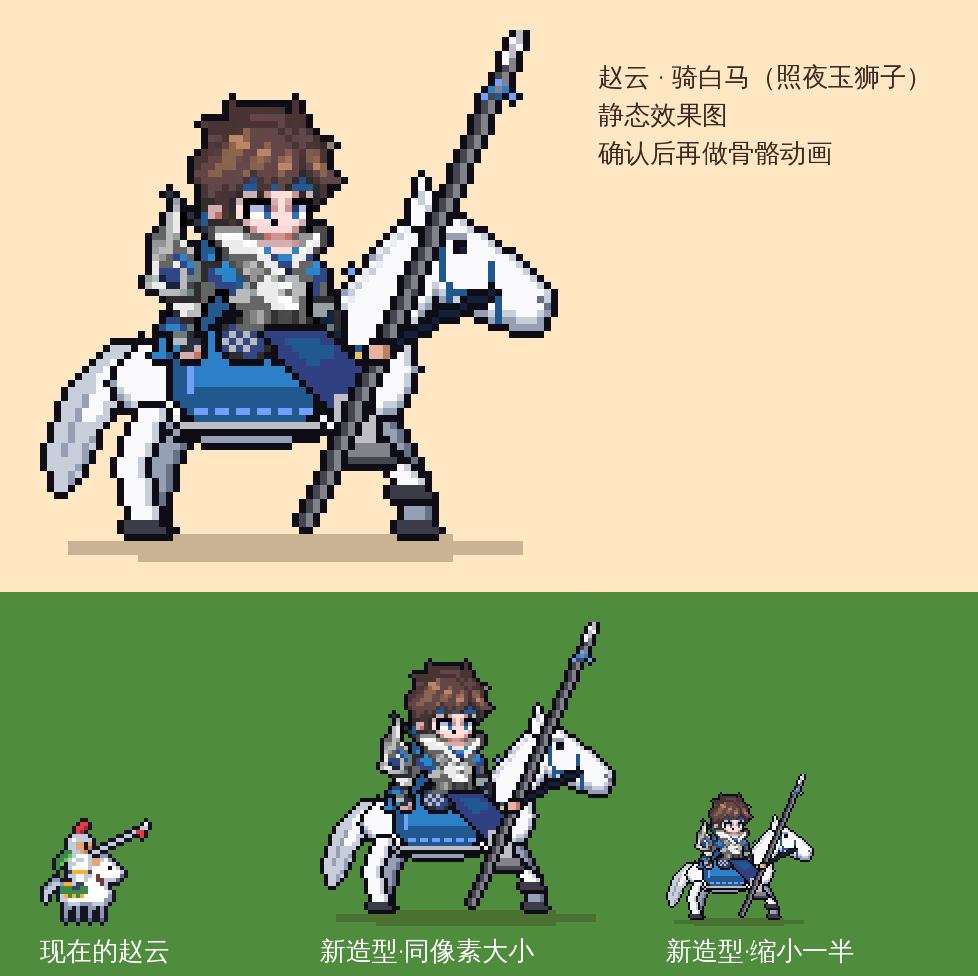
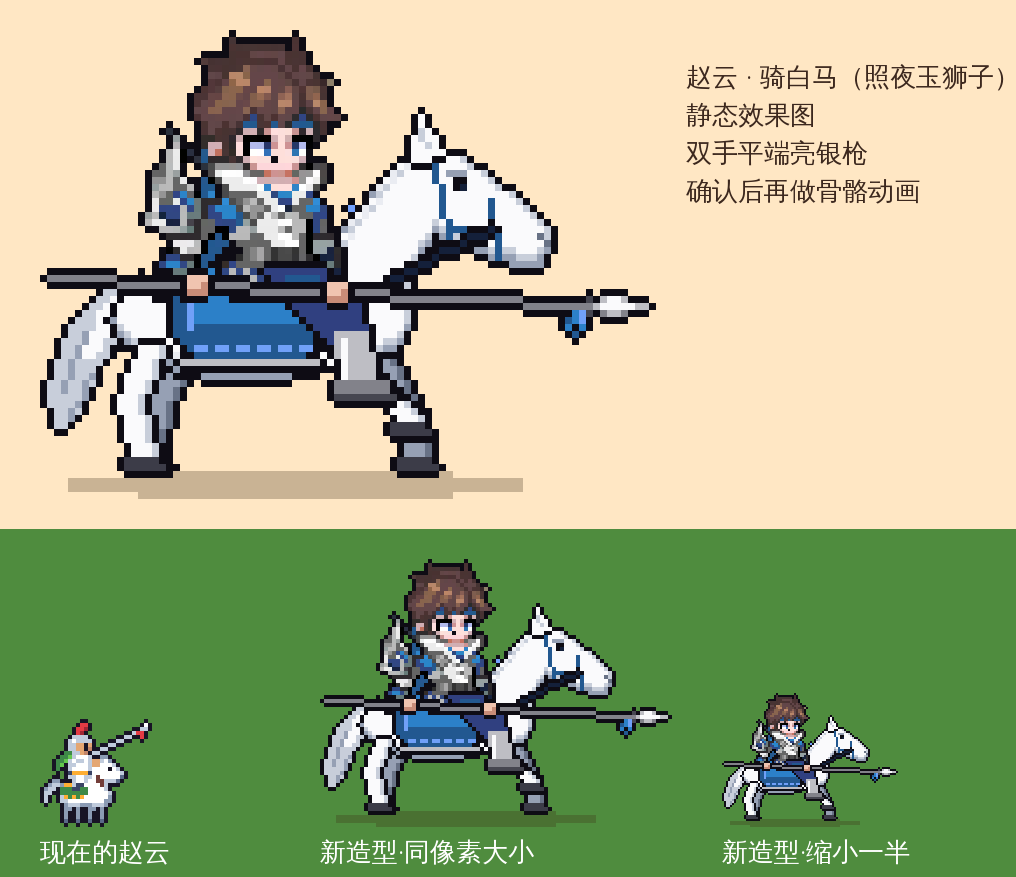
Concept: hold the spear level in both hands
Claude-Session: https://claude.ai/code/session_018oa94DhaGbkSrtXZMTeaux

diff --git a/tools/concept/zhaoyun_mounted.py b/tools/concept/zhaoyun_mounted.py
@@ -165,18 +165,24 @@ layers.append(legr)
 rein = L()
 rein.line(57, 45, 64, 41, B5); rein.line(64, 41, 72, 37, B5)
 layers.append(rein)
-# 9 亮银枪：近手握枪，枪尖斜指前上方
+# 9 亮银枪：双手平端，枪尖朝前略向下（对付步兵的冲锋姿势），枪杆在马脖子外侧
 spear = L()
-x0, y0, x1, y1 = 45, 70, 74, 4
-spear.line(x0, y0, x1, y1, S3, 2)
-spear.line(x0 + 1, y0, x1 + 1, y1, S2)
-for i, (x, y) in enumerate([(74, 3), (75, 2), (75, 1), (76, 0), (74, 4), (75, 3), (76, 2), (76, 1)]): spear.put(x, y, WH if i % 2 == 0 else S1)
-for (x, y, c) in [(73, 7, B1), (72, 8, B2), (74, 8, B2), (71, 9, B1), (73, 9, B3), (75, 9, B1)]: spear.put(x, y, c)
+x0, y0, x1, y1 = 9, 44, 86, 48
+spear.line(x0, y0, x1, y1, S2)
+# 枪头：叶形，银白，长 8
+for (x, y, c) in [(87, 48, S1), (88, 48, WH), (89, 48, WH), (90, 48, WH), (91, 48, WH), (92, 48, WH), (93, 48, S1), (94, 48, S1),
+                  (88, 47, S1), (89, 47, WH), (90, 47, WH), (91, 47, S1), (88, 49, S2), (89, 49, S1), (90, 49, S1), (91, 49, S2)]:
+    spear.put(x, y, c)
+spear.put(86, 47, S3); spear.put(86, 49, S3)
+# 蓝缨挂在枪头后面
+for (x, y, c) in [(84, 49, B2), (85, 49, B1), (83, 50, B3), (84, 50, B2), (85, 50, B1), (83, 51, B2), (85, 51, B2), (84, 52, B3)]: spear.put(x, y, c)
 layers.append(spear)
-# 10 握枪的手
+# 10 双手握枪：把参考图里两只手的像素盖到枪上
 hand = L()
-for (x, y) in [(55, 45), (56, 45), (57, 45), (55, 46), (56, 46), (57, 46)]: hand.put(x, y, P(232, 178, 160))
-hand.put(57, 45, P(184, 128, 104)); hand.put(57, 46, P(184, 128, 104))
+SKIN, SKIN2 = P(240, 196, 176), P(200, 140, 120)
+for hx, hy in ((29, 44), (49, 45)):
+    for dx in range(3):
+        hand.put(hx + dx, hy, SKIN); hand.put(hx + dx, hy + 1, SKIN2 if dx == 2 else SKIN); hand.put(hx + dx, hy + 2, SKIN2)
 layers.append(hand)
 
 out = Image.new('RGBA', (W, H), (0, 0, 0, 0))
